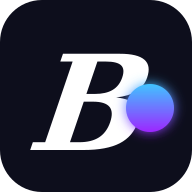
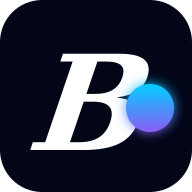
Auto-update SVG and PNG assets from design tokens (#977)

Changed region(s): [[0.6562, 0.4062, 0.9062, 0.6875]]

diff --git a/scripts/generate-assets.ts b/scripts/generate-assets.ts
@@ -1,0 +1,129 @@
+import fs from 'fs';
+import path from 'path';
+import sharp from 'sharp';
+
+const TOKENS_PATH = path.join(process.cwd(), 'src/styles/tokens.css');
+const LOGO_SVG_PATH = path.join(process.cwd(), 'boomtick_logo.svg');
+const FAVICON_SVG_PATH = path.join(process.cwd(), 'public/favicon.svg');
+const PWA_192_PATH = path.join(process.cwd(), 'public/pwa-192x192.png');
+const PWA_512_PATH = path.join(process.cwd(), 'public/pwa-512x512.png');
+
+interface DesignTokens {
+  heroAccent: string | null;
+  accentPurple: string | null;
+  rawColorBg: string | null;
+}
+
+function getTokens(): DesignTokens | null {
+  if (!fs.existsSync(TOKENS_PATH)) {
+    console.warn(`Warning: Tokens file not found at ${TOKENS_PATH}`);
+    return null;
+  }
+
+  const content = fs.readFileSync(TOKENS_PATH, 'utf-8');
+
+  const extract = (key: string) => {
+    const match = content.match(new RegExp(`${key}:\\s*([^;]+);`));
+    return match ? match[1].trim() : null;
+  };
+
+  return {
+    heroAccent: extract('--hero-accent'),
+    accentPurple: extract('--raw-color-accent-purple'),
+    rawColorBg: extract('--raw-color-bg'),
+  };
+}
+
+/**
+ * Safely updates SVG content by targeting specific color attributes and style variables.
+ */
+function updateSVGContent(content: string, tokenMap: Record<string, string | null>) {
+  let updatedContent = content;
+
+  for (const [variableName, newValue] of Object.entries(tokenMap)) {
+    if (!newValue) continue;
+
+    // Find the current value of the variable in the SVG's <style> block
+    const varRegex = new RegExp(`${variableName}:\\s*([^;]+);`);
+    const match = updatedContent.match(varRegex);
+
+    if (match) {
+      const oldValue = match[1].trim();
+      const escapedOldValue = oldValue.replace(/[.*+?^${}()|[\]\\]/g, '\\$&');
+
+      // Update the variable itself in the style block
+      updatedContent = updatedContent.replace(varRegex, `${variableName}: ${newValue};`);
+
+      // Targeted replacement in attributes to avoid corrupting path data or other non-color strings
+      // Matches fill="#OLD", stop-color="#OLD", stroke="#OLD"
+      const attrRegex = new RegExp(`(fill|stop-color|stroke)="(${escapedOldValue})"`, 'gi');
+      updatedContent = updatedContent.replace(attrRegex, `$1="${newValue}"`);
+    }
+  }
+
+  return updatedContent;
+}
+
+async function updateLogo(tokens: DesignTokens) {
+  if (!fs.existsSync(LOGO_SVG_PATH)) {
+    console.warn(`Warning: Logo SVG not found at ${LOGO_SVG_PATH}`);
+    return;
+  }
+
+  const content = fs.readFileSync(LOGO_SVG_PATH, 'utf-8');
+  const updatedContent = updateSVGContent(content, {
+    '--brand-accent-hero': tokens.heroAccent,
+    '--brand-accent-purple': tokens.accentPurple
+  });
+
+  fs.writeFileSync(LOGO_SVG_PATH, updatedContent);
+  console.log(`Updated ${LOGO_SVG_PATH}`);
+}
+
+async function updateFaviconAndPNGs(tokens: DesignTokens) {
+  if (!fs.existsSync(FAVICON_SVG_PATH)) {
+    console.warn(`Warning: Favicon SVG not found at ${FAVICON_SVG_PATH}`);
+    return;
+  }
+
+  const content = fs.readFileSync(FAVICON_SVG_PATH, 'utf-8');
+  const updatedContent = updateSVGContent(content, {
+    '--brand-bg': tokens.rawColorBg,
+    '--brand-accent': tokens.heroAccent,
+    '--brand-accent-purple': tokens.accentPurple
+  });
+
+  fs.writeFileSync(FAVICON_SVG_PATH, updatedContent);
+  console.log(`Updated ${FAVICON_SVG_PATH}`);
+
+  // Generate PNGs
+  try {
+    const svgBuffer = Buffer.from(updatedContent);
+
+    await sharp(svgBuffer)
+      .resize(192, 192)
+      .png()
+      .toFile(PWA_192_PATH);
+    console.log(`Generated ${PWA_192_PATH}`);
+
+    await sharp(svgBuffer)
+      .resize(512, 512)
+      .png()
+      .toFile(PWA_512_PATH);
+    console.log(`Generated ${PWA_512_PATH}`);
+  } catch (error) {
+    console.error('Error generating PNGs:', error);
+  }
+}
+
+async function main() {
+  const tokens = getTokens();
+  if (!tokens) return;
+
+  console.log('Syncing assets with tokens:', tokens);
+
+  await updateLogo(tokens);
+  await updateFaviconAndPNGs(tokens);
+}
+
+main().catch(console.error);
